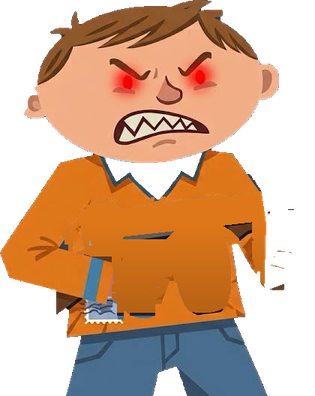
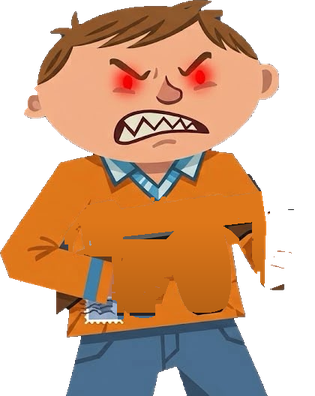
Gat Stanley: restore the plaid shirt in the sweater's V-neck

Changed region(s): [[0.3143, 0.3636, 0.6571, 0.5152]]

diff --git a/index.html b/index.html
@@ -65,15 +65,15 @@
   </div>
   <button class="tb" id="b-pause" data-act="pause">II</button>
 </div>
-<script src="js/core.js?v=34"></script>
-<script src="js/world.js?v=34"></script>
-<script src="js/monsters.js?v=34"></script>
-<script src="js/monster-gizzard.js?v=34"></script>
-<script src="js/monster-crawler.js?v=34"></script>
-<script src="js/monster-stanley.js?v=34"></script>
-<script src="js/leaderboard.js?v=34"></script>
-<script src="js/game.js?v=34"></script>
-<script src="js/touch.js?v=34"></script>
+<script src="js/core.js?v=35"></script>
+<script src="js/world.js?v=35"></script>
+<script src="js/monsters.js?v=35"></script>
+<script src="js/monster-gizzard.js?v=35"></script>
+<script src="js/monster-crawler.js?v=35"></script>
+<script src="js/monster-stanley.js?v=35"></script>
+<script src="js/leaderboard.js?v=35"></script>
+<script src="js/game.js?v=35"></script>
+<script src="js/touch.js?v=35"></script>
 <script src="/visits.js" async></script>
 </body>
 </html>

diff --git a/js/monster-stanley.js b/js/monster-stanley.js
@@ -4,7 +4,7 @@
    short burst; bullets break things but can't eat, so he still has to grab snacks by hand. */
 (function () {
   const PARTS = {};
-  if (typeof Image !== 'undefined') for (const k of ['base', 'gun', 'gun-slung']) { const im = new Image(); im.src = 'art/stanley/' + k + '.png'; PARTS[k] = im; }
+  if (typeof Image !== 'undefined') for (const k of ['base', 'gun', 'gun-slung']) { const im = new Image(); im.src = 'art/stanley/' + k + '.png?v=35'; PARTS[k] = im; }
   const ready = () => PARTS.base && PARTS.base.complete && PARTS.base.naturalWidth && PARTS.gun.complete && PARTS.gun.naturalWidth;
 
   // Art space: the cut-out is 420 x 528 units; the lower legs and shoes are drawn below it.
